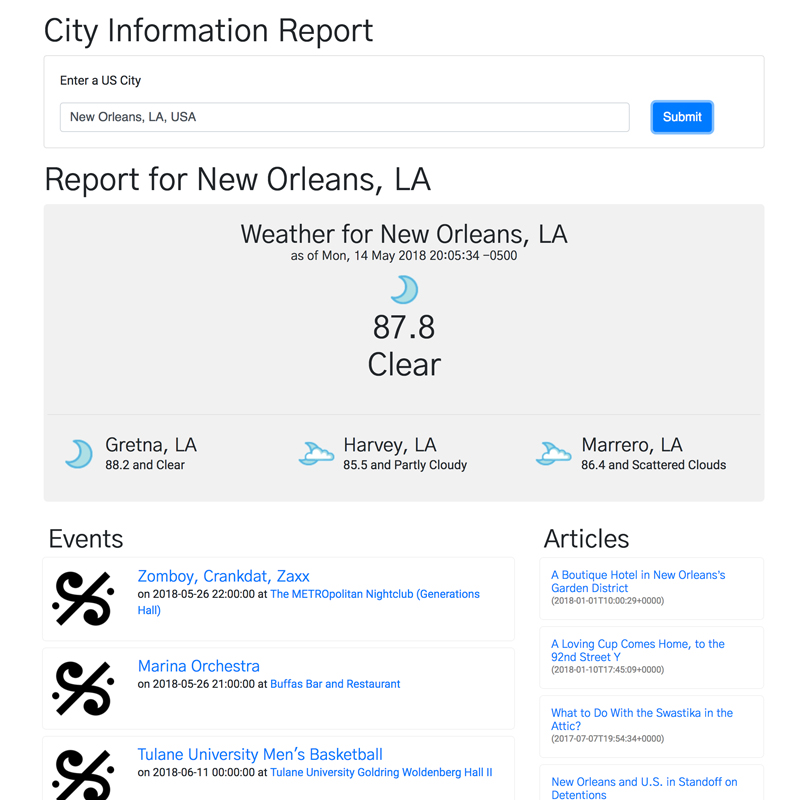
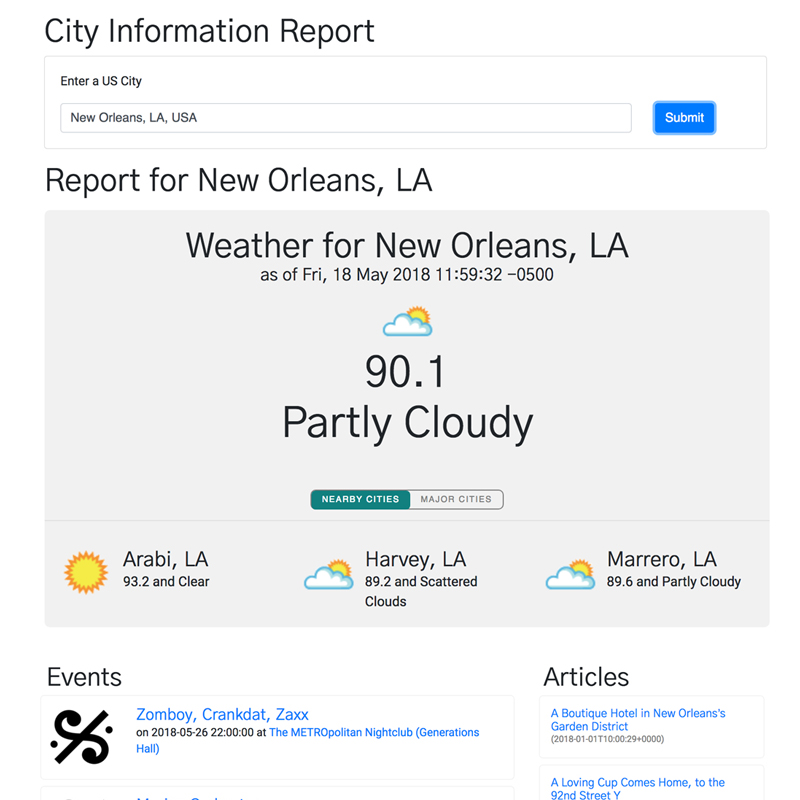
Updates screenshot to include toggle

diff --git a/_site/projects/city_data/index.html b/_site/projects/city_data/index.html
@@ -61,7 +61,7 @@
 
   <h1>React Data Aggregator</h1>
 
-  <p>API calls for all the things! This is a combo React app + separate Rails API app. It's loaded with location-specific feeds, which are the product of 6 different APIs repackaged as one inside the Rails API. All of that makes the Rails API a pretty tidy package to serve to the React app.</p>
+  <p>API calls for all the things! This is a combo <a href="https://github.com/lortza/react_rails_api_city_data" target="_blank" alt="react_rails_api_city_data">React app</a> + separate <a href="https://github.com/lortza/rails_api_integrator" target="_blank" alt="rails_api_integrator">Rails API app</a>. It's loaded with location-specific feeds, which are the product of 6 different APIs repackaged as one inside the Rails API. All of that makes the Rails API a pretty tidy package to serve to the React app.</p>
 
   
   <p>Check out the <a href="https://github.com/lortza/react_rails_api_city_data" target="_blank" alt="React Data Aggregator repo">repo README</a> for a tour of the app<br>complete with code snippet explanations and screenshots.</p>

diff --git a/_projects/city_data.md b/_projects/city_data.md
@@ -6,6 +6,6 @@ repo: https://github.com/lortza/react_rails_api_city_data
 readme: true
 img: /img/rails_react_city_info_api.jpg
 tagline: React + Rails API
-description: API calls for all the things! This is a combo React app + separate Rails API app. It's loaded with location-specific feeds, which are the product of 6 different APIs repackaged as one inside the Rails API. All of that makes the Rails API a pretty tidy package to serve to the React app.
+description: API calls for all the things! This is a combo <a href="https://github.com/lortza/react_rails_api_city_data" target="_blank" alt="react_rails_api_city_data">React app</a> + separate <a href="https://github.com/lortza/rails_api_integrator" target="_blank" alt="rails_api_integrator">Rails API app</a>. It's loaded with location-specific feeds, which are the product of 6 different APIs repackaged as one inside the Rails API. All of that makes the Rails API a pretty tidy package to serve to the React app.
 role: solo project, full stack
 ---
